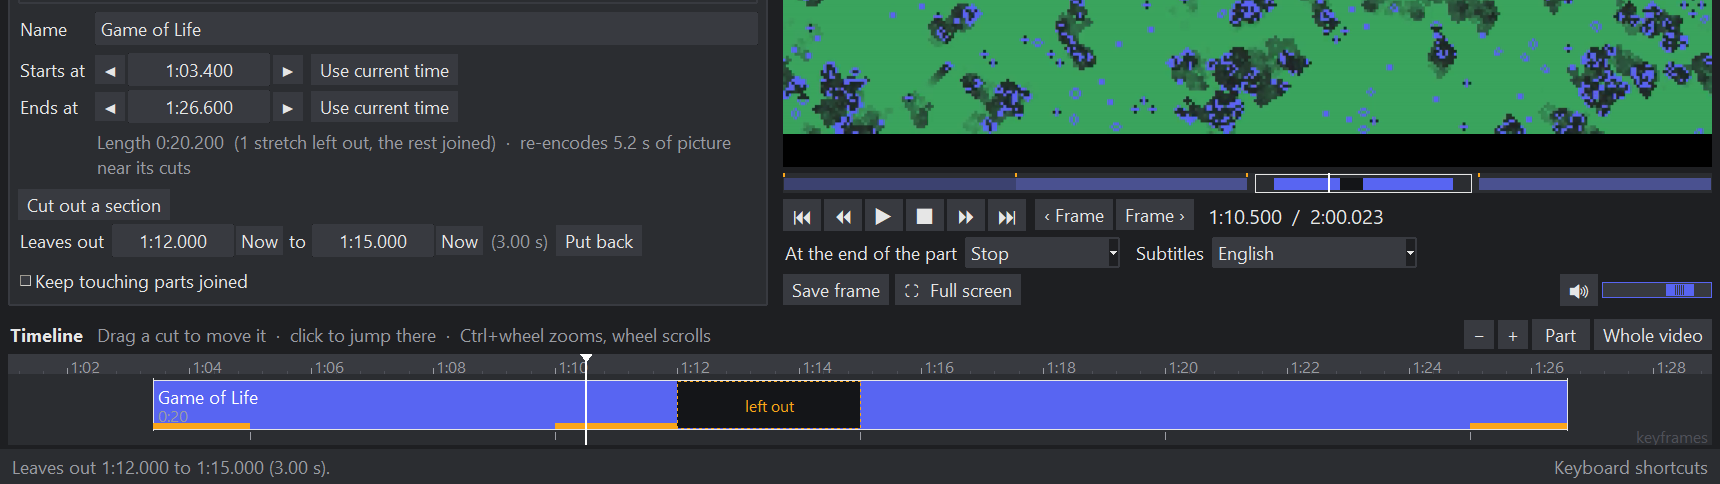
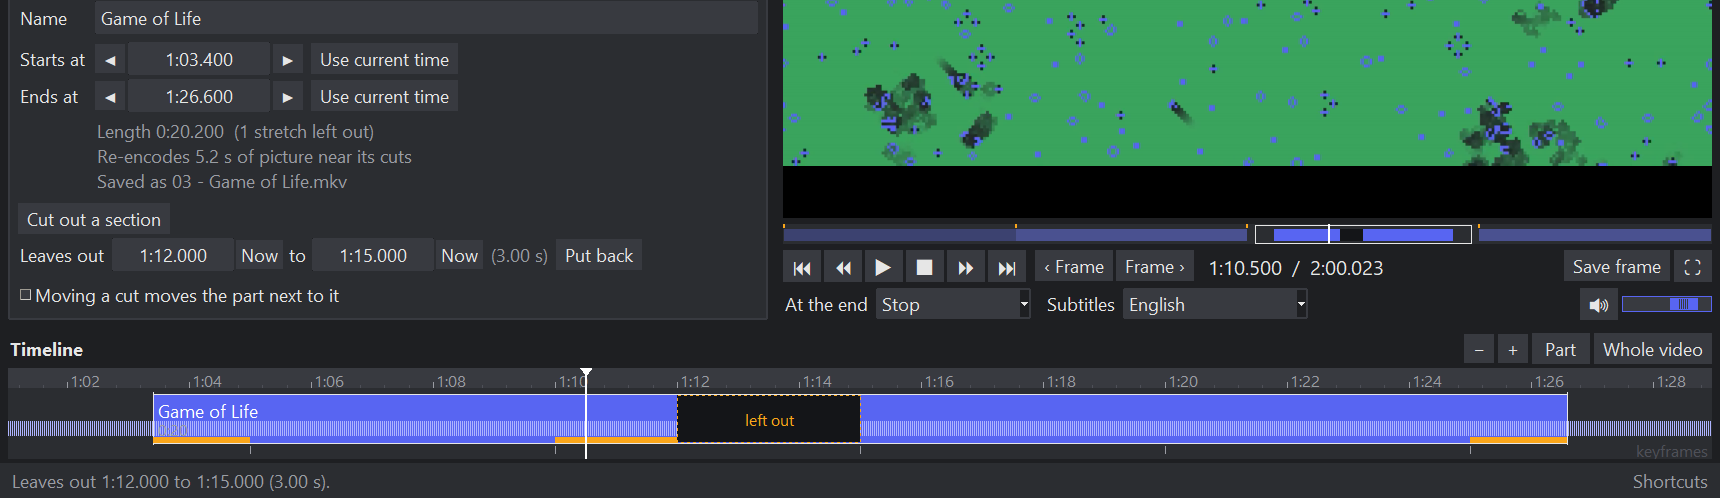
Splicer 1.6.0: Shift+click checkboxes, a tidier window, close-while-splicing fix
- Shift+click a checkbox to check or uncheck every part up to the last one
  clicked; Ctrl+A selects every part.
- Cancel, progress and Open folder only show when they can be used; player
  controls in two rows; no File name column (shown under the part instead);
  timeline tips moved to Shortcuts; plainer labels.
- Closing while splicing waits for the part being written to be removed.
- Sound only no longer fails on videos with cover art (.m4a can't hold it).
- Bad saved pane sizes and relative paths on the command line are handled.
- Window tests never show a message box.

diff --git a/splicer/app.py b/splicer/app.py
@@ -50,7 +50,6 @@ PART_COLUMNS = (  # id, heading, width, anchor, stretch
     ("start", "Start", 88, "e", False),
     ("end", "End", 88, "e", False),
     ("length", "Length", 80, "e", False),
-    ("file", "File name", 220, "w", True),
 )
 
 SHORTCUTS = """Space  play / pause
@@ -64,7 +63,11 @@ Ctrl+Z  Ctrl+Y  undo / redo
 +  −  zoom the timeline in / out
 S  save the frame as a picture
 F  full screen (Esc to leave)
-M  mute"""
+M  mute
+
+On the timeline: drag a cut to move it, click to jump there,
+wheel to scroll, Ctrl+wheel to zoom.
+Shift+click a checkbox to check or uncheck all the parts up to it."""
 
 
 @dataclass(eq=False)
@@ -465,7 +468,8 @@ class App(BaseTk):
     def _restore_sashes(self):
         self.update_idletasks()
         saved = self.settings.get("panes")
-        ok = isinstance(saved, list) and len(saved) == 2
+        ok = isinstance(saved, list) and len(saved) == 2 and \
+            all(isinstance(v, int) for v in saved)
         width, height = self.upper.winfo_width(), self.outer.winfo_height()
         main = saved[0] if ok else int(width * 0.42)
         lower = saved[1] if ok else height - int(165 * self.scale)
@@ -567,7 +571,7 @@ class App(BaseTk):
         status.pack(side="bottom", fill="x")
         self.status = ttk.Label(status, text=f"Splicer {__version__}", style="Bar.TLabel")
         self.status.pack(side="left", fill="x", expand=True)
-        keys = ttk.Label(status, text="Keyboard shortcuts", style="Bar.TLabel", cursor="hand2")
+        keys = ttk.Label(status, text="Shortcuts", style="Bar.TLabel", cursor="hand2")
         keys.pack(side="right")
         tip(keys, SHORTCUTS)
 
@@ -674,7 +678,9 @@ class App(BaseTk):
                             "Show the folder the parts were saved in.")
         self.open_btn.pack(side="right", padx=(0, 6))
         self.progress = ttk.Progressbar(row, maximum=1.0, length=120)
-        self.progress.pack(side="right", padx=(0, 10))
+        self.cancel_btn.pack_forget()
+        self.open_btn.pack_forget()
+        self.shown_actions = []
 
     def _build_tracks(self, box):
         note = ttk.Label(box, text="Checked tracks go into every part, and the first checked "
@@ -711,10 +717,10 @@ class App(BaseTk):
         more = ttk.Menubutton(head, text="More", menu=self.more_menu)
         more.pack(side="right", padx=(4, 0))
         self.part_buttons.append(more)
-        self.redo_btn = tip(ttk.Button(head, text="↷", style="Step.TButton",
+        self.redo_btn = tip(ttk.Button(head, text="Redo",
                                        command=self.do_redo), "Redo (Ctrl+Y)")
         self.redo_btn.pack(side="right", padx=(4, 0))
-        self.undo_btn = tip(ttk.Button(head, text="↶", style="Step.TButton",
+        self.undo_btn = tip(ttk.Button(head, text="Undo",
                                        command=self.do_undo), "Undo (Ctrl+Z)")
         self.undo_btn.pack(side="right", padx=(12, 0))
         for text, command, help_text in (
@@ -753,6 +759,8 @@ class App(BaseTk):
         self.tree.bind("<Button-1>", self._tree_click)
         self.tree.bind("<<TreeviewSelect>>", lambda e: self._show_selected())
         self.tree.bind("<Delete>", lambda e: self._remove_parts())
+        self.tree.bind("<Control-a>", lambda e: (
+            self.tree.selection_set(self.tree.get_children()), "break")[1])
         self.tree.bind("<Double-1>", lambda e: (self.title_entry.focus_set(),
                                                 self.title_entry.select_range(0, "end")))
 
@@ -817,7 +825,7 @@ class App(BaseTk):
         self.removed_box = ttk.Frame(edit, style="Tab.TFrame")
         self.removed_box.grid(row=5, column=0, columnspan=2, sticky="ew")
         self.joined_var = tk.BooleanVar(value=self.settings.get("joined", True))
-        tip(ttk.Checkbutton(edit, text="Keep touching parts joined", variable=self.joined_var,
+        tip(ttk.Checkbutton(edit, text="Moving a cut moves the part next to it", variable=self.joined_var,
                             style="Tab.TCheckbutton"),
             "When a part ends where the next one starts, moving that cut moves both, so "
             "nothing falls between them.").grid(row=6, column=0, columnspan=2, sticky="w",
@@ -868,9 +876,17 @@ class App(BaseTk):
             self.transport.append(b)
         self.time_label = ttk.Label(row, text="", style="Time.TLabel")
         self.time_label.pack(side="left", padx=(12, 0))
+        self.full_btn = tip(ttk.Button(row, text="⛶", style="Transport.TButton",
+                                       command=self.enter_full_screen),
+                            "Full screen (F, or double-click the picture). Esc leaves.")
+        self.full_btn.pack(side="right")
+        self.frame_btn = tip(ttk.Button(row, text="Save frame", command=self.save_frame),
+                             "Save the picture in the player, at full size, as a PNG in the "
+                             "folder the parts go to (S).")
+        self.frame_btn.pack(side="right", padx=(0, 4))
         row = ttk.Frame(controls)
         row.pack(fill="x", pady=(6, 0))
-        ttk.Label(row, text="At the end of the part").pack(side="left")
+        ttk.Label(row, text="At the end").pack(side="left")
         self.end_mode = self.settings.get("end_mode", "stop")
         if self.end_mode not in END_MODES:
             self.end_mode = "stop"
@@ -884,24 +900,13 @@ class App(BaseTk):
         ttk.Label(row, text="Subtitles").pack(side="left", padx=(14, 0))
         self.subtitle_var = tk.StringVar(value="Off")
         self.subtitle_box = ttk.Combobox(row, textvariable=self.subtitle_var, state="readonly",
-                                         width=18, values=["Off"])
+                                         width=16, values=["Off"])
         self.subtitle_box.pack(side="left", padx=(6, 0))
         self.subtitle_box.bind("<<ComboboxSelected>>", lambda e: self._subtitles_changed())
         tip(self.subtitle_box, "Subtitles to show in the player. Only text subtitles can be "
             "shown here; every checked subtitle track goes into the parts either way.")
-
-        row = ttk.Frame(controls)
-        row.pack(fill="x", pady=(6, 0))
-        self.frame_btn = tip(ttk.Button(row, text="Save frame", command=self.save_frame),
-                             "Save the picture in the player, at full size, as a PNG in the "
-                             "folder the parts go to (S).")
-        self.frame_btn.pack(side="left")
-        self.full_btn = tip(ttk.Button(row, text="⛶  Full screen",
-                                       command=self.enter_full_screen),
-                            "Watch full screen (F, or double-click the picture). Esc leaves.")
-        self.full_btn.pack(side="left", padx=(6, 0))
         self.volume_var = tk.DoubleVar(value=self.settings.get("volume", 80))
-        volume = ttk.Scale(row, from_=0, to=100, variable=self.volume_var, length=110,
+        volume = ttk.Scale(row, from_=0, to=100, variable=self.volume_var, length=90,
                            command=lambda v: self.player.set_volume(self._volume()))
         volume.pack(side="right")
         self.mute_btn = tip(ttk.Button(row, text="🔊", style="Transport.TButton",
@@ -912,9 +917,6 @@ class App(BaseTk):
         head = ttk.Frame(box)
         head.pack(fill="x")
         ttk.Label(head, text="Timeline", style="Section.TLabel").pack(side="left")
-        ttk.Label(head, text="Drag a cut to move it  ·  click to jump there  ·  "
-                  "Ctrl+wheel zooms, wheel scrolls", style="Note.TLabel"
-                  ).pack(side="left", padx=(10, 0))
         self.zoom_buttons = []
         for text, command, help_text in (
                 ("Whole video", lambda: self.timeline.fit(), "Show the whole video."),
@@ -1422,12 +1424,13 @@ class App(BaseTk):
             self.tree.insert("", "end", iid=part.iid, tags=tags, values=(
                 CHECKED if part.use else UNCHECKED,
                 f"{n:0{width}}" if part.use else "",
-                part.title, fmt_time(part.start), fmt_time(part.end), fmt_time(part.length),
-                names.get(part, "not saved")))
+                part.title, fmt_time(part.start), fmt_time(part.end), fmt_time(part.length)))
         if keep:
             self.tree.selection_set([p.iid for p in keep if p in self.parts])
         if focused in self.parts:
             self.tree.focus(focused.iid)  # emptied by the rebuild
+        if self.info and getattr(self, "editing", None) in self.parts:
+            self._describe(self.editing)  # its file name may have changed
         used = [p for p in self.parts if p.use]
         if self.info:
             total = sum(p.length for p in used)
@@ -1491,8 +1494,17 @@ class App(BaseTk):
         iid = self.tree.identify_row(event.y)
         if self.tree.identify_column(event.x) == "#1" and iid and not self.busy:
             part = next(p for p in self.parts if p.iid == iid)
+            use = not part.use
+            group = [part]
+            anchor = getattr(self, "check_anchor", None)
+            if event.state & 0x0001 and anchor in self.parts:
+                # Shift+click: every part from the last checkbox clicked to this one
+                a, b = sorted((self.parts.index(anchor), self.parts.index(part)))
+                group = self.parts[a:b + 1]
             self._remember()
-            part.use = not part.use
+            for p in group:
+                p.use = use
+            self.check_anchor = part
             self._changed()
             return "break"
         return None
@@ -1834,6 +1846,19 @@ class App(BaseTk):
 
     # --- The selected part ---
 
+    def _describe(self, part: Part):
+        """The note under the part's times: its length, what's re-encoded, its file."""
+        gaps = len(part.removed)
+        text = f"Length {fmt_time(part.length)}" + (
+            f"  ({gaps} stretch{'es' * (gaps != 1)} left out)" if gaps else "")
+        if self.anywhere:
+            redo = engine.reencoded(self.info, part.kept)
+            if redo > EPS:
+                text += f"\nRe-encodes {redo:.1f} s of picture near its cuts"
+        name = self._names().get(part)
+        text += f"\nSaved as {name}" if name else "\nUnchecked, so not saved"
+        self.length_label.configure(text=text)
+
     def _show_selected(self):
         part = self._current() if self.info else None
         if not part:
@@ -1855,17 +1880,7 @@ class App(BaseTk):
         for side in ("start", "end"):
             self.time_vars[side].set(fmt_time(getattr(part, side)))
         self.editing = part
-        gaps = len(part.removed)
-        self.length_label.configure(
-            text=f"Length {fmt_time(part.length)}" + (
-                f"  ({gaps} stretch{'es' * (gaps != 1)} left out, the rest joined)"
-                if gaps else ""))
-        if self.anywhere:
-            redo = engine.reencoded(self.info, part.kept)
-            if redo > EPS:
-                self.length_label.configure(
-                    text=self.length_label.cget("text")
-                    + f"  ·  re-encodes {redo:.1f} s of picture near its cuts")
+        self._describe(part)
         self._fill_removed(part)
         self.side_notes["start"].configure(
             text="the start of the video" if part.start <= EPS else "")
@@ -2165,7 +2180,7 @@ class App(BaseTk):
                 return
             ext = engine.sound_ext(sound)
             tracks = [sound.index]
-            if ext in (".mka", ".m4a"):  # these can carry the cover art too
+            if ext == ".mka":  # carries the cover art too (FFmpeg can't put it in .m4a)
                 tracks += [i for i, on in self.track_use.items() if on and kinds[i] == "cover"]
         else:
             tracks = [i for i, on in self.track_use.items() if on]
@@ -2248,7 +2263,8 @@ class App(BaseTk):
                 done_length += length
             self.events.put(("spliced", written, failed, False))
 
-        threading.Thread(target=work, daemon=True).start()
+        self.splicer_thread = threading.Thread(target=work, daemon=True)
+        self.splicer_thread.start()
 
     def _cancel(self):
         if self.busy:
@@ -2306,9 +2322,18 @@ class App(BaseTk):
         state(self.full_btn, has_picture)
         state(self.frame_btn, has_picture)
         state(self.splice_btn, idle and loaded and any(p.use for p in self.parts))
-        state(self.cancel_btn, bool(self.busy))
-        state(self.open_btn, idle and self.last_output is not None
-              and self.last_output.is_dir())
+        # Cancel and the progress bar only while busy; Open folder once there's a folder
+        open_folder = idle and self.last_output is not None and self.last_output.is_dir()
+        shown = [w for w, on in ((self.cancel_btn, not idle), (self.open_btn, open_folder),
+                                 (self.progress, not idle)) if on]
+        if shown != self.shown_actions:
+            for w in self.shown_actions:
+                w.pack_forget()
+            beside = self.splice_btn
+            for w in shown:
+                w.pack(side="right", padx=(0, 10 if w is self.progress else 6), after=beside)
+                beside = w
+            self.shown_actions = shown
 
     def _pump(self):
         try:
@@ -2384,6 +2409,12 @@ class App(BaseTk):
                                        "finished ones stay.", parent=self):
                 return
         self.cancel.set()
+        # Let the part being written stop and remove itself before the process ends
+        worker = getattr(self, "splicer_thread", None)
+        if worker is not None and worker.is_alive():
+            self.status.configure(text="Stopping…")
+            self.update_idletasks()
+            worker.join(timeout=30)
         self._save_project_now()
         self.player.close()
         self._save()
@@ -2397,7 +2428,7 @@ def main() -> int:
         pass
     app = App()
     # A video dropped on Splicer.exe, or opened with it, opens straight away
-    if paths := [Path(arg) for arg in sys.argv[1:] if Path(arg).is_file()]:
+    if paths := [Path(arg).resolve() for arg in sys.argv[1:] if Path(arg).is_file()]:
         app.after(200, lambda: app.open_video(paths[0]))
     app.mainloop()
     return 0

diff --git a/tests/test_window.py b/tests/test_window.py
@@ -34,7 +34,16 @@ def wait(window, test, timeout: float = 20.0):
 def window(tmp_path, monkeypatch):
     # Its own empty settings, and nothing saved anywhere
     monkeypatch.setattr(appmod, "SETTINGS_FILE", tmp_path / "settings.json")
+    # Message boxes are noted, never shown: nothing may pop up on the screen
+    shown = []
+    for name in ("showinfo", "showerror", "showwarning"):
+        monkeypatch.setattr(appmod.messagebox, name,
+                            lambda *args, n=name, **kw: shown.append((n, args)))
+    for name in ("askyesno", "askokcancel", "askyesnocancel"):
+        monkeypatch.setattr(appmod.messagebox, name,
+                            lambda *args, n=name, **kw: shown.append((n, args)) or True)
     a = appmod.App()
+    a.shown_messages = shown
     a.attributes("-alpha", 0.0)  # never shows on screen
     a.lower()
     a._save = lambda: None
@@ -155,3 +164,73 @@ def test_splice_takes_a_time_still_being_typed(window, tmp_path):
     assert a.parts[0].end == 6.0
     files = list((tmp_path / "out").iterdir())
     assert len(files) == 1
+
+
+def click_checkbox(a, part, shift=False):
+    x, y, w, h = a.tree.bbox(part.iid, "#1")
+    state = 1 if shift else 0
+    a.tree.event_generate("<Shift-Button-1>" if shift else "<Button-1>",
+                          x=x + w // 2, y=y + h // 2, state=state)
+    a.update()
+
+
+def test_shift_click_checks_the_parts_in_between(window):
+    a = window
+    click_checkbox(a, a.parts[0])  # off
+    assert [p.use for p in a.parts] == [False, True, True]
+    click_checkbox(a, a.parts[2], shift=True)  # off, and everything up to it
+    assert [p.use for p in a.parts] == [False, False, False]
+    click_checkbox(a, a.parts[1])  # on
+    click_checkbox(a, a.parts[0], shift=True)
+    assert [p.use for p in a.parts] == [True, True, False]
+    a.do_undo()  # one step for the whole range
+    assert [p.use for p in a.parts] == [False, True, False]
+
+
+def test_ctrl_a_selects_every_part(window):
+    a = window
+    a.tree.focus_set()
+    a.tree.event_generate("<Control-a>")
+    assert len(a._selected_parts()) == 3
+
+
+def test_busy_buttons_only_while_busy(window, tmp_path):
+    a = window
+    assert not a.cancel_btn.winfo_ismapped() and not a.progress.winfo_ismapped()
+    a.busy = "splicing"
+    a._sync()
+    a.update()
+    assert a.cancel_btn.winfo_ismapped() and a.progress.winfo_ismapped()
+    a.busy = ""
+    a.last_output = tmp_path
+    a._sync()
+    a.update()
+    assert not a.cancel_btn.winfo_ismapped() and a.open_btn.winfo_ismapped()
+
+
+def test_the_file_name_follows_the_settings(window):
+    a = window
+    a._select(a.parts[1])
+    assert "Saved as 02 - " in a.length_label.cget("text")
+    a.numbered_var.set(False)
+    a._refresh_parts()
+    assert "Saved as 02 - " not in a.length_label.cget("text")
+    click_checkbox(a, a.parts[1])
+    assert "not saved" in a.length_label.cget("text")
+
+
+def test_sound_only_from_a_video_with_cover_art(window, tmp_path):
+    a = window
+    a.open_video(FIXTURES / "withcover.mp4")
+    wait(a, lambda: a.info is not None and not a.busy)
+    a.save_as_var.set(appmod.SAVE_AS["sound"])
+    a._save_as_changed()
+    for p in a.parts:
+        p.use = p is a.parts[0]
+    a._refresh_parts()
+    a.output_var.set(str(tmp_path / "out"))
+    a._splice()
+    wait(a, lambda: not a.busy, 60)
+    files = list((tmp_path / "out").iterdir())
+    assert len(files) == 1 and files[0].suffix == ".m4a"
+    assert not a.shown_messages

diff --git a/splicer/__init__.py b/splicer/__init__.py
@@ -1,3 +1,3 @@
 """Splicer: cut a video into parts without re-encoding anything."""
 
-__version__ = "1.5.1"
+__version__ = "1.6.0"

diff --git a/README.md b/README.md
@@ -37,7 +37,8 @@ python -m splicer
 To change a part, select it and type new start and end times, or press
 **Use current time** (or `I` / `O`) while watching, or drag its edges on the
 timeline. **Add part**, **Split** and **Remove** do what they say. Uncheck a
-part to skip it. Everything can be undone with `Ctrl+Z`.
+part to skip it; Shift+click a checkbox to check or uncheck every part up to
+the last one you clicked. Everything can be undone with `Ctrl+Z`.
 
 The timeline along the bottom shows the sound's waveform, which makes the gaps
 between songs or scenes easy to spot. `Ctrl+wheel` zooms in.
@@ -97,6 +98,7 @@ own description has one, it's filled in for you.
 | Page Up / Page Down | Previous / next part |
 | I O | Set the part's start / end to now |
 | Ctrl+Z Ctrl+Y | Undo / redo |
+| Ctrl+A | Select every part |
 | + − | Zoom the timeline |
 | F, Esc | Full screen, leave it |
 | M | Mute |
